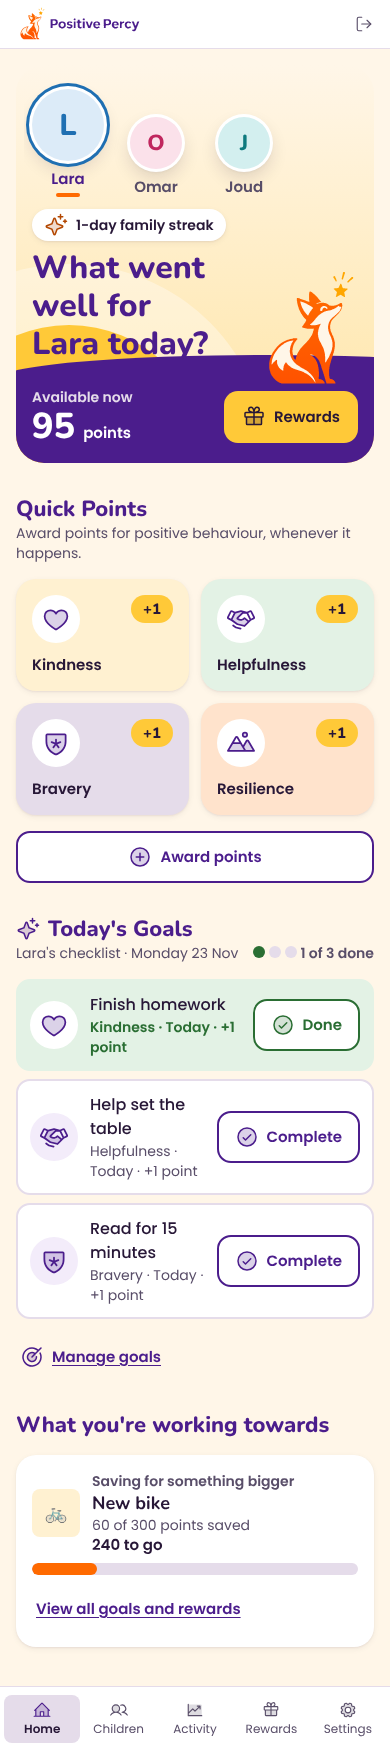
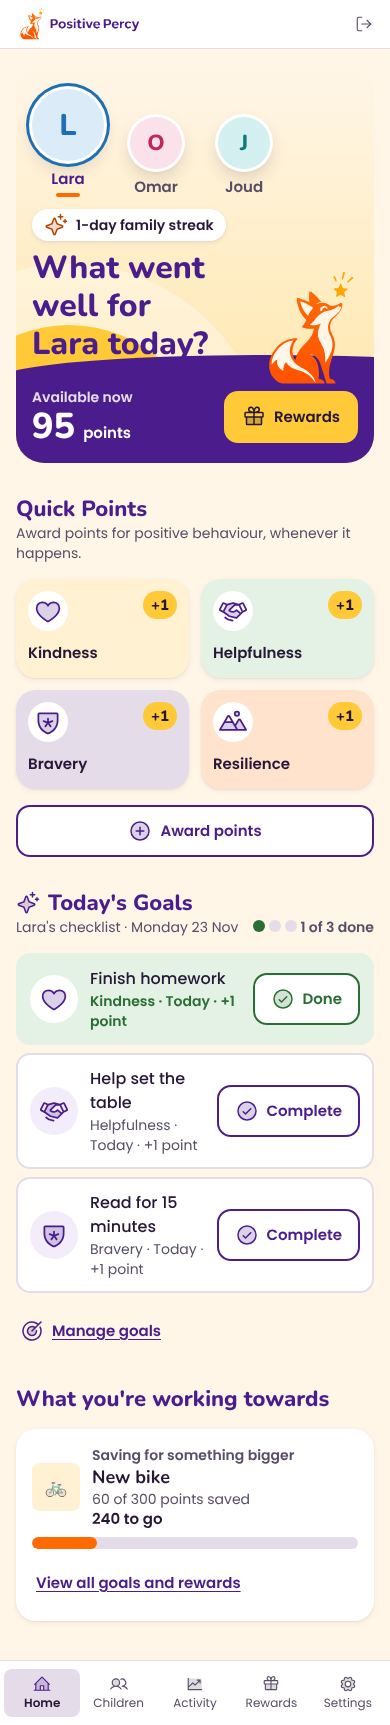
fix(v1.1): tiles fit a +1000 badge at 138px; child selector wraps instead of scrolling
Both from the repo's e2e layout checks (e2e/checks.js): badge overlapped
the icon on the narrowest two-across tile, and the six-child selector
scrolled sideways, which the repo forbids. Handback updated.

Claude-Session: https://claude.ai/code/session_01S1yExfNAhm1AwiwanVucDR

diff --git a/src/styles/percy-v11.css b/src/styles/percy-v11.css
@@ -345,3 +345,11 @@
 .pv-quick-tile { grid-template-rows: auto 1fr; }
 .pv-quick-tile__label { align-self: start; }
 .pv-manage-action__label { display: flex; align-items: center; min-height: var(--pv-tap); }
+/* A tile fits a 40px icon and a "+1000" badge side by side at 138px wide
+   (the narrowest two-across tile, 320px screens). */
+.pv-quick-tile { padding: var(--pv-space-3); }
+.pv-quick-tile .pv-medallion { width: var(--pv-space-7); height: var(--pv-space-7); }
+.pv-quick-tile__points { padding: var(--pv-space-1) var(--pv-space-2); }
+/* Children never scroll sideways (repo rule, e2e/checks.js): a large family
+   wraps to a second row; nothing shrinks. */
+.pv-selector { flex-wrap: wrap; overflow-x: visible; scroll-snap-type: none; row-gap: var(--pv-space-3); }

diff --git a/design/v11/P3_HANDBACK.md b/design/v11/P3_HANDBACK.md
@@ -45,6 +45,8 @@ Home and Children in the real app now use the V1.1 design system, on V1's own da
 5. **The Today ring counts only goals scheduled today.** Children's existing list (`?manage=true`) returns every goal, which would have been the wrong denominator; the page now also reads the plain today list (the same query Home uses).
 6. **Treats on Children are drawn in V1.1 rows** with the V1 tile's content (icon, title, points, visibility, Edit). The V1 `RewardTile` had 40px Edit buttons on non-touch screens and its tag overflowed at 200% text. `RewardTile` itself is unchanged, so the Rewards tab is unaffected.
 7. **Header and tab bar stay V1.** The V1.1 navigation waits for the other tabs.
+8. **The child selector wraps instead of scrolling sideways.** The repo forbids anything that scrolls sideways (`e2e/checks.js`). A family of six wraps onto more rows; nothing shrinks.
+9. **Quick Point tiles use a 40px icon and 12px padding**, so a "+1000" badge fits beside the icon on the narrowest two-across tile (138px at 320px wide).
 
 ## 4. New or changed wording (for owner approval)
 
@@ -116,12 +118,14 @@ Independent fresh-context review (read-only, given the code and screenshots, not
 | 13 | Manage card focus depended on `:has()` | **Fixed.** The card ring is used only where `:has()` is supported; elsewhere the label keeps its own focus ring |
 | Nits | Type role use, tile colours by position, desktop empty space under Quick Points, clouds clipped behind the selector, selector inside the profile section, lilac borders, Done chip styled like a button | Clouds removed; journey "Saving for something bigger" heading now uses the stop-label style. The rest are recorded for the next visual pass |
 
-## 9. Remaining blockers
+## 9. Remaining blockers and known edges
 
 - Fox artwork B1 to B6 (`design/v11/fox1a/asset-manifest.json`): no layered master, no pose art, colour questions, clipped stacked logos. Owner action: commission per the brief.
 - Owner approval of the wording in section 4.
 - Real-device check of the 12px tab labels (V1 tab bar, unchanged here).
-- Safari / iOS check (`:has()` is used for the Manage card focus ring; supported from Safari 15.4).
+- Safari / iOS check (`:has()` draws the Manage card focus ring where supported; elsewhere the label's own ring shows).
+- A very long single first name (e.g. "Alexandra-Josephine Montgomery-Wellington") breaks mid-word in the 32px Home headline at 320px. It is readable; recorded for the next visual pass.
+- Home at 1280px leaves space under Quick Points (review nit); the "before" screenshots use a different sample family from the "after" ones.
 
 ## Change log
 
